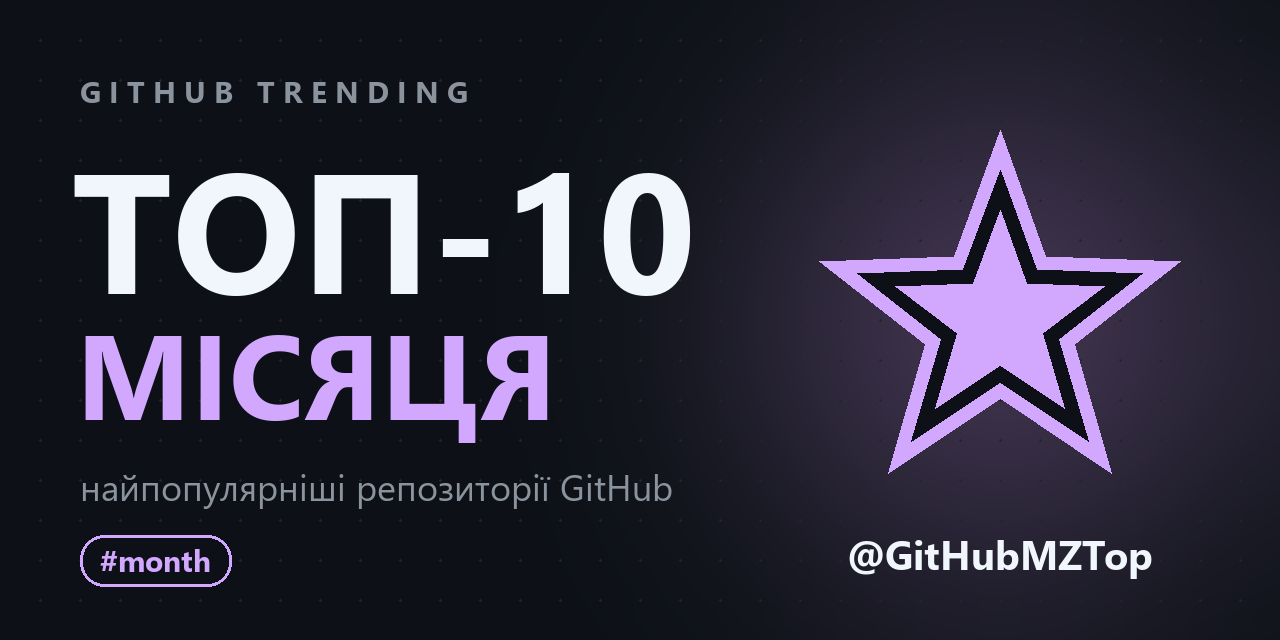
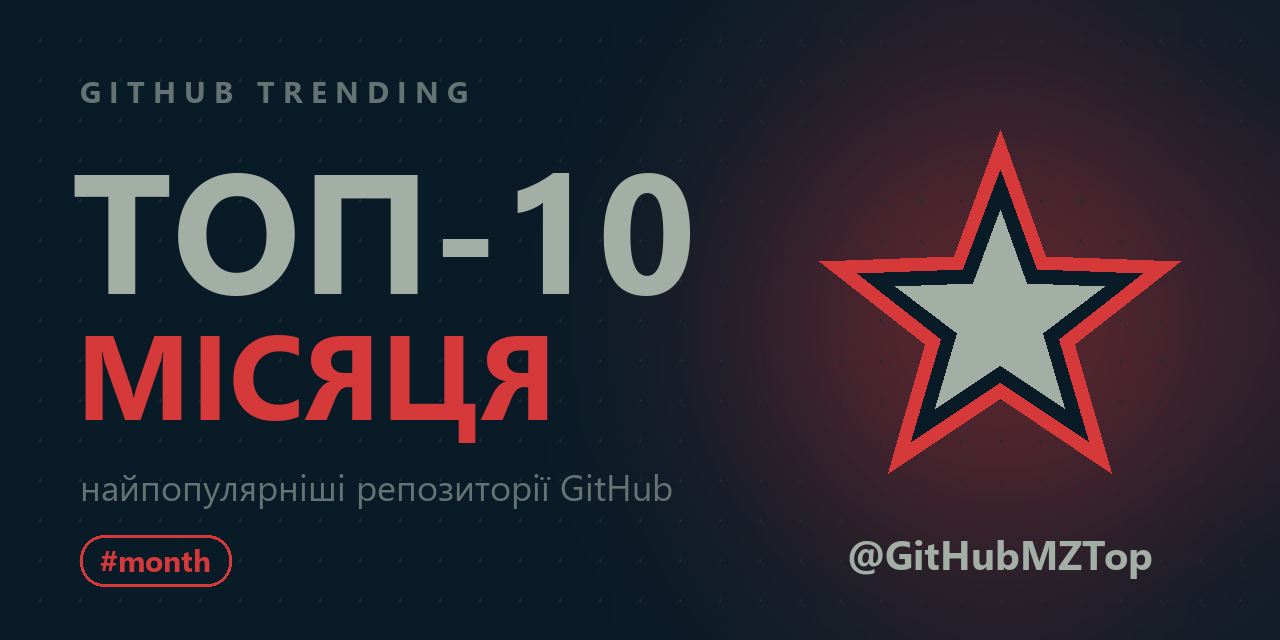
feat: redraw the header images in new three-color palettes

diff --git a/assets/make_banners.py b/assets/make_banners.py
@@ -8,21 +8,44 @@ and bump IMAGES_VERSION in services/digest.py: Telegram caches previews by URL.
 """
 import argparse
 import math
+from dataclasses import dataclass
 from pathlib import Path
 
 from PIL import Image, ImageDraw, ImageFilter, ImageFont
 
 HERE = Path(__file__).resolve().parent
 WIDTH, HEIGHT = 1280, 640
-BACKGROUND = (13, 17, 23)
-TEXT = (240, 246, 252)
-MUTED = (139, 148, 158)
 CHANNEL = "@GitHubMZTop"
 
+Color = tuple[int, int, int]
+
+
+def hex_color(value: str) -> Color:
+    value = value.lstrip("#")
+    return tuple(int(value[i:i + 2], 16) for i in (0, 2, 4))
+
+
+def mix(a: Color, b: Color, share: float) -> Color:
+    """a with share of b blended in."""
+    return tuple(round(x + (y - x) * share) for x, y in zip(a, b))
+
+
+@dataclass(frozen=True)
+class Palette:
+    background: Color  # the dark color of the palette
+    text: Color  # the light one: "ТОП-10", the channel, the inner star
+    accent: Color  # the bright one: the period word, the star, the hashtag
+
+    @property
+    def muted(self) -> Color:
+        return mix(self.background, self.text, 0.6)
+
+
+# One three-color palette per period
 BANNERS = {
-    "day": ("ДНЯ", (63, 185, 80)),
-    "week": ("ТИЖНЯ", (88, 166, 255)),
-    "month": ("МІСЯЦЯ", (210, 168, 255)),
+    "day": ("ДНЯ", Palette(hex_color("#49022D"), hex_color("#E4DD95"), hex_color("#F7AF05"))),  # Mulberry, Buttercream, Marigold
+    "week": ("ТИЖНЯ", Palette(hex_color("#273E49"), hex_color("#FEE1AF"), hex_color("#A76020"))),  # Slate Blue, Cream, Copper Brown
+    "month": ("МІСЯЦЯ", Palette(hex_color("#091B27"), hex_color("#A3AFA5"), hex_color("#D5393A"))),  # Midnight Navy, Sage Mist, Vermilion
 }
 
 # Fonts with Cyrillic: Windows, then Debian (fonts-dejavu)
@@ -46,33 +69,34 @@ def star(cx: float, cy: float, outer: float, inner: float) -> list[tuple[float, 
     return points
 
 
-def draw(key: str, word: str, accent: tuple[int, int, int], channel: str, bold: str, regular: str) -> Image.Image:
-    image = Image.new("RGB", (WIDTH, HEIGHT), BACKGROUND)
+def draw(key: str, word: str, palette: Palette, channel: str, bold: str, regular: str) -> Image.Image:
+    accent, text, muted = palette.accent, palette.text, palette.muted
 
-    # Soft glow behind the star
-    glow = Image.new("RGB", (WIDTH, HEIGHT), BACKGROUND)
-    ImageDraw.Draw(glow).ellipse((760, 80, 1240, 560), fill=tuple(c // 3 for c in accent))
-    image = Image.blend(image, glow.filter(ImageFilter.GaussianBlur(120)), 1.0)
+    # Soft glow of the accent behind the star
+    glow = Image.new("RGB", (WIDTH, HEIGHT), palette.background)
+    ImageDraw.Draw(glow).ellipse((760, 80, 1240, 560), fill=mix(palette.background, accent, 0.45))
+    image = glow.filter(ImageFilter.GaussianBlur(120))
     canvas = ImageDraw.Draw(image)
 
     # Dot grid
+    dot = mix(palette.background, text, 0.12)
     for x in range(40, WIDTH, 40):
         for y in range(40, HEIGHT, 40):
-            canvas.ellipse((x - 1, y - 1, x + 1, y + 1), fill=(33, 38, 45))
+            canvas.ellipse((x - 1, y - 1, x + 1, y + 1), fill=dot)
 
     canvas.polygon(star(1000, 320, 190, 78), fill=accent)
-    canvas.polygon(star(1000, 320, 150, 62), fill=BACKGROUND)
-    canvas.polygon(star(1000, 320, 110, 45), fill=accent)
+    canvas.polygon(star(1000, 320, 150, 62), fill=palette.background)
+    canvas.polygon(star(1000, 320, 110, 45), fill=text)
 
     small = ImageFont.truetype(bold, 30)
     huge = ImageFont.truetype(bold, 170)
     big = ImageFont.truetype(bold, 120)
     regular_font = ImageFont.truetype(regular, 36)
 
-    canvas.text((80, 70), "G I T H U B   T R E N D I N G", font=small, fill=MUTED)
-    canvas.text((72, 110), "ТОП-10", font=huge, fill=TEXT)
+    canvas.text((80, 70), "G I T H U B   T R E N D I N G", font=small, fill=muted)
+    canvas.text((72, 110), "ТОП-10", font=huge, fill=text)
     canvas.text((76, 290), word, font=big, fill=accent)
-    canvas.text((80, 462), "найпопулярніші репозиторії GitHub", font=regular_font, fill=MUTED)
+    canvas.text((80, 462), "найпопулярніші репозиторії GitHub", font=regular_font, fill=muted)
 
     hashtag = f"#{key}"
     left, top, right, bottom = canvas.textbbox((0, 0), hashtag, font=small)
@@ -82,7 +106,7 @@ def draw(key: str, word: str, accent: tuple[int, int, int], channel: str, bold: 
     # Channel name centred under the star, on the line of the hashtag
     channel_font = ImageFont.truetype(bold, 40)
     left, top, right, bottom = canvas.textbbox((0, 0), channel, font=channel_font)
-    canvas.text((1000 - (right - left) / 2 - left, 560 - (bottom - top) / 2 - top), channel, font=channel_font, fill=TEXT)
+    canvas.text((1000 - (right - left) / 2 - left, 560 - (bottom - top) / 2 - top), channel, font=channel_font, fill=text)
     return image
 
 
@@ -94,9 +118,9 @@ def main() -> None:
     args = parser.parse_args()
     bold = args.bold or find_font(BOLD_FONTS)
     regular = args.regular or find_font(REGULAR_FONTS)
-    for key, (word, accent) in BANNERS.items():
+    for key, (word, palette) in BANNERS.items():
         path = HERE / f"{key}.png"
-        draw(key, word, accent, args.channel, bold, regular).save(path, optimize=True)
+        draw(key, word, palette, args.channel, bold, regular).save(path, optimize=True)
         print(path)
 
 

diff --git a/services/digest.py b/services/digest.py
@@ -30,7 +30,7 @@ TICK = 30
 RETRY_AFTER = timedelta(minutes=15)
 # Telegram caches link previews by URL, so a redrawn header under the same file
 # name would keep showing the old picture: bump this whenever assets/*.png change
-IMAGES_VERSION = 2
+IMAGES_VERSION = 3
 
 
 class NoTop(RuntimeError):
